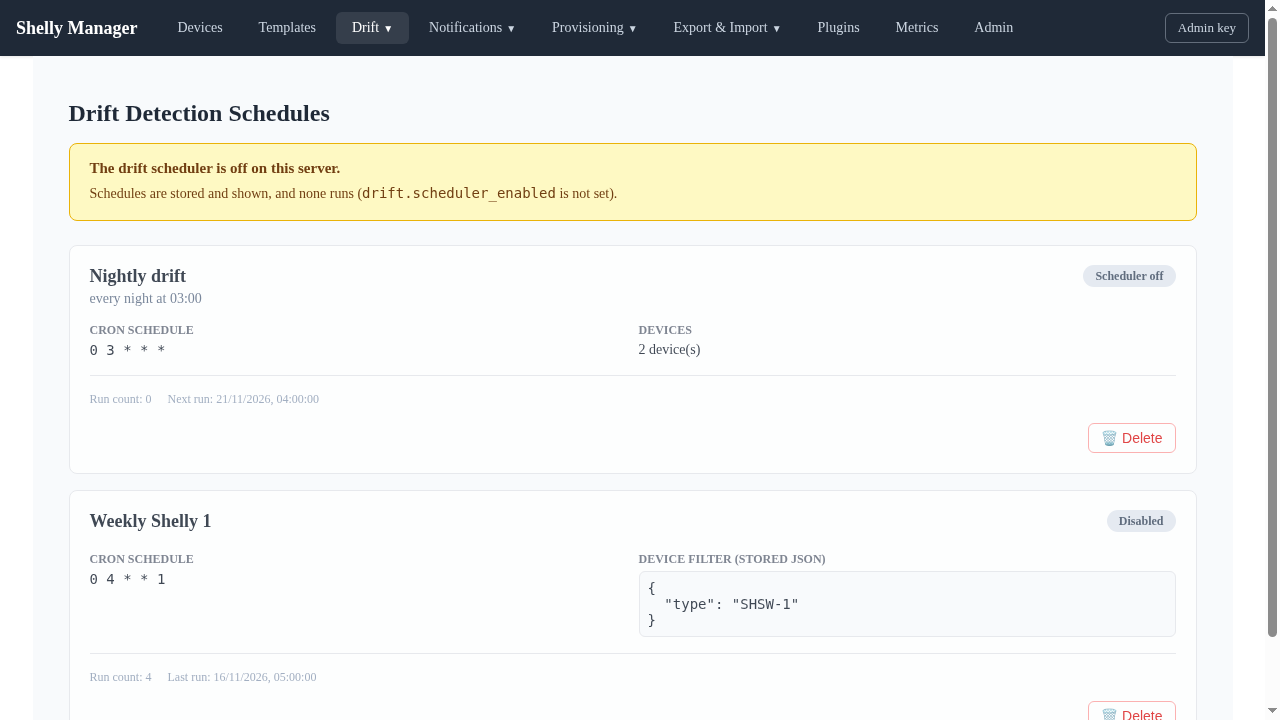
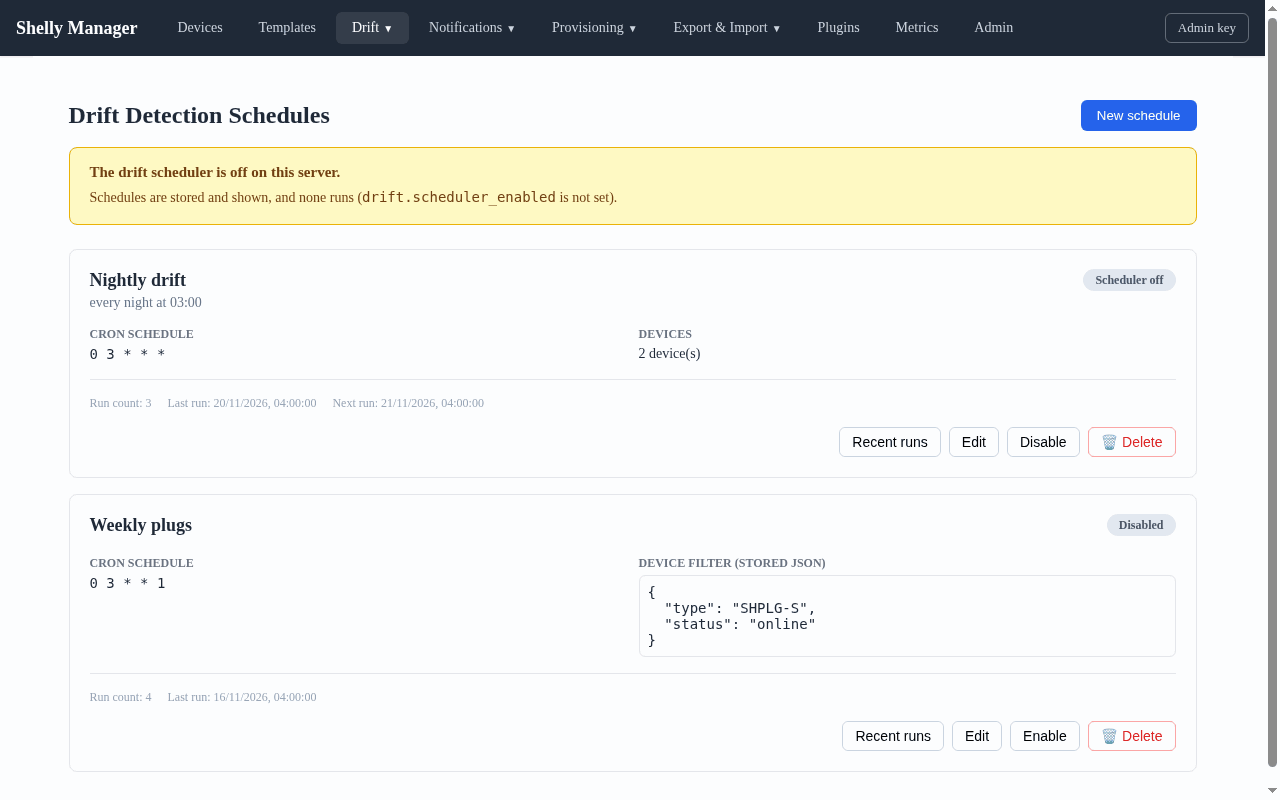
docs(frontend): drift schedule form, runs list and screenshots; three changelog fragments

diff --git a/docs/frontend/frontend-review.md b/docs/frontend/frontend-review.md
@@ -1,7 +1,7 @@
 # Frontend Review: Shelly Manager Web Application
 
-**Measured:** 2026-11-19 at commit 13e3038 (`main`); all of section 3 was re-measured at commit 0648bab; the table and the Status line in section 1 with the change of ginsys/shelly-manager#595 and again with ginsys/shelly-manager#250 and ginsys/shelly-manager#748, and a unit test keeps them equal to the code (section 1)
-**Status:** 132 of 137 exported API functions are referenced by the UI (96%). All 26 routed pages can be reached by clicking from the top bar (section 3, re-measured at commit 0648bab).
+**Measured:** 2026-11-19 at commit 13e3038 (`main`); all of section 3 was re-measured at commit 0648bab; the table and the Status line in section 1 with the change of ginsys/shelly-manager#595 and again with ginsys/shelly-manager#250 and ginsys/shelly-manager#748, and again with the drift schedule form of ginsys/shelly-manager#279, and a unit test keeps them equal to the code (section 1)
+**Status:** 136 of 141 exported API functions are referenced by the UI (96%). All 26 routed pages can be reached by clicking from the top bar (section 3, re-measured at commit 0648bab).
 **Next review:** when a frontend issue from "Open work" merges, or by re-running the commands in this file
 
 Every number below comes from a command in this file, run at the commit above. Re-run the command
@@ -77,7 +77,7 @@ printf 'TOTAL\t%d\t%d\n' "$total" "$used"
 | `configNew.ts` (per-device templates, overrides, desired config, apply, verify) | 12 | 12 | |
 | `deviceConfig.ts` | 5 | 4 | `updateDeviceConfig` |
 | `devices.ts` | 10 | 10 | |
-| `drift.ts` | 9 | 9 | |
+| `drift.ts` | 13 | 13 | |
 | `errorBody.ts` | 4 | 4 | |
 | `export.ts` | 27 | 25 | `getBackupResult`, `downloadExport` |
 | `import.ts` | 4 | 4 | |
@@ -88,7 +88,7 @@ printf 'TOTAL\t%d\t%d\n' "$total" "$used"
 | `provisioning.ts` | 7 | 7 | |
 | `templates.ts` | 8 | 8 | |
 | `typedConfig.ts` | 2 | 2 | |
-| **Total** | **137** | **132** | **5** |
+| **Total** | **141** | **136** | **5** |
 
 This measures what the UI uses, not what the backend offers. It does not count backend routes.
 ginsys/shelly-manager#84 asked for the UI side. The February 2026 audit in that issue (48 of 108
@@ -151,7 +151,7 @@ rg -n --no-heading -o "(to=\"[^\"]+\"|:to=\"[^\"]+\"|to: '[^']+'|router\.(push|r
 | `/devices/:id/config/history` | Configuration history (list and view, no restore: ginsys/shelly-manager#775) | 132 | Device details |
 | `/templates` | Configuration templates | 395 | top bar, Template detail |
 | `/templates/:id` | Template detail | 425 | Templates |
-| `/drift/schedules` | Drift schedules (inspect and delete only, see section 5) | 357 | top bar (Drift) |
+| `/drift/schedules` | Drift schedules (create, edit, enable or disable, delete, recent runs; see section 5) | 494 | top bar (Drift) |
 | `/drift/reports` | Drift reports | 519 | top bar (Drift) |
 | `/drift/trends` | Drift trends | 517 | top bar (Drift) |
 | `/export/backup` | Backup management | 921 | top bar (Export & Import) |
@@ -184,8 +184,7 @@ pages and the device configuration pages) is linked from its list page. This was
 ginsys/shelly-manager#645 (ginsys/shelly-manager#641); a mocked end-to-end spec
 (`ui/tests/e2e/nav-reachability.spec.ts`) walks the links.
 
-Linked is not the same as working: the Drift schedules page cannot create or edit a
-schedule yet (ginsys/shelly-manager#279), and the export and import detail pages answer only for results the
+Linked is not the same as working: the export and import detail pages answer only for results the
 server process still holds in memory (ginsys/shelly-manager#647). Both pages show the main fields
 of a result (status, created time, duration, errors, warnings, and for an import the changes by
 type, never their values; ginsys/shelly-manager#139). They do not show the export `output_path`,
@@ -226,12 +225,22 @@ page imports still counts. The Playwright spec is what proves the links are rend
   with the scheduler off, shows a banner and the badge "Scheduler off" on an enabled schedule; a
   disabled schedule reads "Disabled", and a failed read of the state shows its own banner and never
   claims the scheduler is off. The state is that of the one server that answers, so replicas
-  configured differently differ. The page lists schedules and deletes them: its create and edit
-  form, the presets and the run history list are the last slice of ginsys/shelly-manager#279.
+  configured differently differ. The page also creates and edits a schedule (a form with a cron
+  preset or a custom spec, and one of three device choices: all devices, chosen devices, or a type
+  and status filter), enables or disables it, deletes it, and lists its recent runs when a card is
+  opened (started, status, duration, error; newest first). The form sends exactly one of the device
+  list and the filter, and waits with Save until a chosen list or a filter has something in it. The
+  server checks the cron spec, the devices and the filter, and its refusal is shown as written.
+  Saving can skip a run that is already due, and a changed schedule restarts its timer. The list
+  route answers every schedule at once with no paging, so the page has no pager. Not in the UI: a
+  view of one run's results (the server has no route for it).
 
   ![Drift schedules with the scheduler off](images/drift-schedules-scheduler-off.png)
   ![Drift schedules with the scheduler on](images/drift-schedules-scheduler-on.png)
   ![Drift schedules when the scheduler state could not be read](images/drift-schedules-status-unreadable.png)
+  ![New drift schedule, filtering by type and status](images/drift-schedule-form.png)
+  ![New drift schedule with chosen devices and nothing chosen: Save waits](images/drift-schedule-form-chosen.png)
+  ![A schedule card with its recent runs open](images/drift-schedules-recent-runs.png)
 
 - **Drift compares with the desired configuration**, the one apply writes and verify reads, and no
   longer with the stored import record (ginsys/shelly-manager#606). A device with no desired
@@ -350,8 +359,7 @@ What is left is the channel's name, description and type, which the page cannot 
 the form does not show (a template, a timeout, retries, a Slack icon), which a save keeps as they are.
 
 Also parked, not frontend-labelled: ginsys/shelly-manager#249 (export/import routes the frontend
-calls that the backend does not have) and ginsys/shelly-manager#279 (the drift schedule form,
-presets and run history list are not in the UI yet). Parked issues are not next work.
+calls that the backend does not have). Parked issues are not next work.
 
 ---
 

diff --git a/changelog.d/279-drift-schedule-form.md b/changelog.d/279-drift-schedule-form.md
@@ -1,0 +1,3 @@
+Added
+
+- The Drift schedules page can now create and edit a schedule and enable or disable it. The form takes a name, a description, a cron preset (hourly, daily at 03:00, weekly on Monday at 03:00) or a custom spec, and one of three device choices: all devices, chosen devices, or a type and status filter. It sends exactly one of the device list and the filter, and keeps Save off until a chosen list or a filter has something in it, so an empty choice never means all devices by accident. The server stays the validator and its refusal is shown as written. Refs ginsys/shelly-manager#279.

diff --git a/changelog.d/279-drift-schedule-runs-ui.md b/changelog.d/279-drift-schedule-runs-ui.md
@@ -1,0 +1,3 @@
+Added
+
+- Each schedule on the Drift schedules page has a "Recent runs" list, read when the card is first opened: started time, status (success, failed or skipped), duration and the error of a failed run, newest first, with an empty state and a failed-load state that can be retried. Refs ginsys/shelly-manager#279.

diff --git a/changelog.d/279-drift-schedule-pager-removed.md b/changelog.d/279-drift-schedule-pager-removed.md
@@ -1,0 +1,3 @@
+Removed
+
+- The Drift schedules page no longer has a pager. The schedule list route answers every schedule in one plain array with no paging data, so the pager could never show. Refs ginsys/shelly-manager#279.
